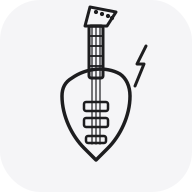
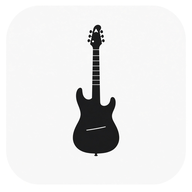
Иконки инструментов из Песни (lad-v2)
Те же PNG acoustic/distortion/piano, HTML переключён с svg на png.

Changed region(s): [[0.3125, 0.0312, 0.7812, 0.8438]]

diff --git a/index.html b/index.html
@@ -22,13 +22,13 @@
       <p class="brand-sub" id="brandSub">Помощник для тех, кто пишет песни на гитаре</p>
       <div class="instrument-bar" role="group" aria-label="Звук">
         <button type="button" class="instrument-btn" data-instrument="acoustic" aria-label="Акустическая гитара" aria-pressed="false">
-          <img src="icons/acoustic.svg" alt="" width="44" height="44" />
+          <img src="icons/acoustic.png" alt="" width="44" height="44" />
         </button>
         <button type="button" class="instrument-btn" data-instrument="distortion" aria-label="Дисторшн" aria-pressed="false">
-          <img src="icons/distortion.svg" alt="" width="44" height="44" />
+          <img src="icons/distortion.png" alt="" width="44" height="44" />
         </button>
         <button type="button" class="instrument-btn" data-instrument="piano" aria-label="Фортепиано" aria-pressed="false">
-          <img src="icons/piano.svg" alt="" width="44" height="44" />
+          <img src="icons/piano.png" alt="" width="44" height="44" />
         </button>
       </div>
     </header>
